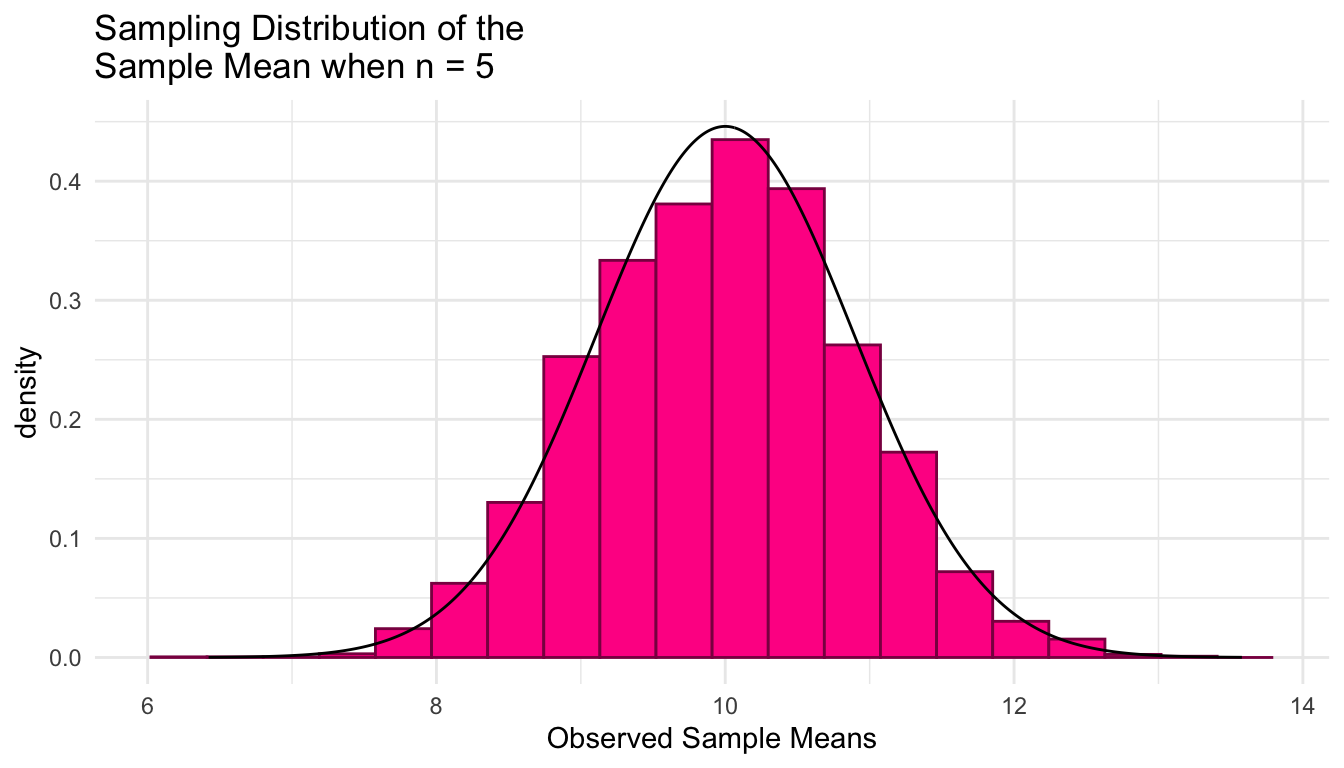
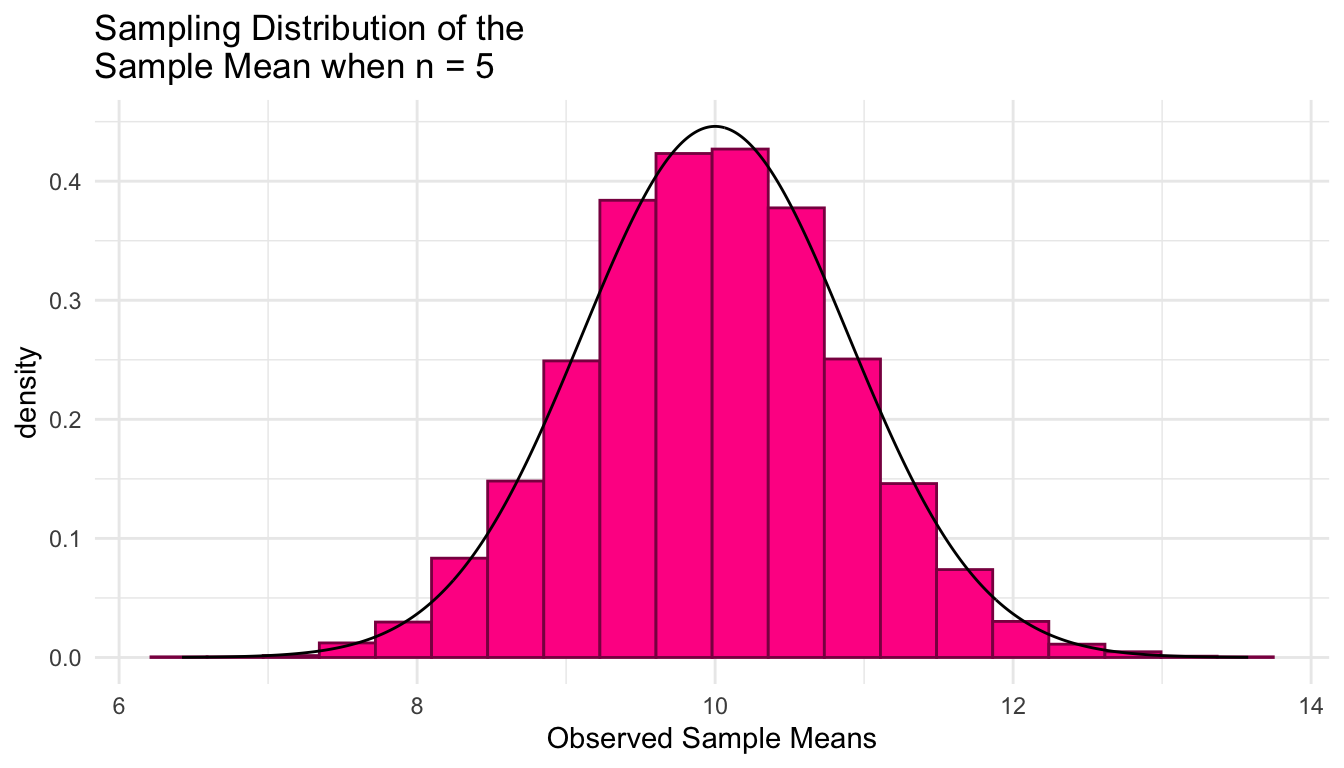
minor tweak to site title.

diff --git a/docs/samp-dist.html b/docs/samp-dist.html
@@ -4,7 +4,7 @@
 <meta charset="utf-8">
 <meta name="generator" content="quarto-1.4.555">
 <meta name="viewport" content="width=device-width, initial-scale=1.0, user-scalable=yes">
-<title>STAT 326 Labs - 1&nbsp; Sampling Distributions</title>
+<title>STAT 326 Labs and Projects - 1&nbsp; Sampling Distributions</title>
 <style>
 code{white-space: pre-wrap;}
 span.smallcaps{font-variant: small-caps;}
@@ -141,7 +141,7 @@ window.Quarto = {
 <!-- sidebar -->
   <nav id="quarto-sidebar" class="sidebar collapse collapse-horizontal quarto-sidebar-collapse-item sidebar-navigation floating overflow-auto"><div class="pt-lg-2 mt-2 text-left sidebar-header">
     <div class="sidebar-title mb-0 py-0">
-      <a href="./">STAT 326 Labs</a> 
+      <a href="./">STAT 326 Labs and Projects</a> 
         <div class="sidebar-tools-main">
   <a href="" class="quarto-reader-toggle quarto-navigation-tool px-1" onclick="window.quartoToggleReader(); return false;" title="Toggle reader mode">
   <div class="quarto-reader-toggle-btn">
@@ -161,7 +161,7 @@ window.Quarto = {
 <li class="sidebar-item">
   <div class="sidebar-item-container"> 
   <a href="./index.html" class="sidebar-item-text sidebar-link">
- <span class="menu-text">STAT 326 Site Information</span></a>
+ <span class="menu-text">Site Information</span></a>
   </div>
 </li>
         <li class="sidebar-item">
@@ -266,7 +266,7 @@ window.Quarto = {
 <span><span class="va">single_sample</span> <span class="op">&lt;-</span> <span class="fu"><a href="https://rdrr.io/r/stats/Normal.html">rnorm</a></span><span class="op">(</span><span class="va">n</span>, <span class="va">mu</span>, <span class="va">sigma</span><span class="op">)</span> <span class="op">|&gt;</span> <span class="fu"><a href="https://rdrr.io/r/base/Round.html">round</a></span><span class="op">(</span><span class="fl">2</span><span class="op">)</span></span>
 <span><span class="co"># look at the sample</span></span>
 <span><span class="va">single_sample</span> </span>
-<span><span class="co">#&gt; [1] 10.63  8.97  5.17 10.20  9.54</span></span></code><button title="Copy to Clipboard" class="code-copy-button"><i class="bi"></i></button></pre></div>
+<span><span class="co">#&gt; [1] 14.33 13.12 12.15 10.04 12.45</span></span></code><button title="Copy to Clipboard" class="code-copy-button"><i class="bi"></i></button></pre></div>
 </div>
 <p>Next, we compute the sample mean from this sample: this is our sample statistic we are interested in.</p>
 <div class="cell">
@@ -274,7 +274,7 @@ window.Quarto = {
 <span><span class="va">sample_mean</span> <span class="op">&lt;-</span> <span class="fu"><a href="https://rdrr.io/r/base/mean.html">mean</a></span><span class="op">(</span><span class="va">single_sample</span><span class="op">)</span></span>
 <span><span class="co"># look at the sample mean</span></span>
 <span><span class="va">sample_mean</span>     </span>
-<span><span class="co">#&gt; [1] 8.902</span></span></code><button title="Copy to Clipboard" class="code-copy-button"><i class="bi"></i></button></pre></div>
+<span><span class="co">#&gt; [1] 12.418</span></span></code><button title="Copy to Clipboard" class="code-copy-button"><i class="bi"></i></button></pre></div>
 </div>
 <p>Again, your sample mean should be different!</p>
 <p>Finally, we can make a plot of our single sample, along with where the sample mean lies.</p>
@@ -324,7 +324,7 @@ window.Quarto = {
 <span></span>
 <span><span class="co">## test function once:</span></span>
 <span><span class="fu">generate_normal_mean</span><span class="op">(</span>mu <span class="op">=</span> <span class="va">mu</span>, sigma <span class="op">=</span> <span class="va">sigma</span>, n <span class="op">=</span> <span class="va">n</span><span class="op">)</span></span>
-<span><span class="co">#&gt; [1] 9.804759</span></span></code><button title="Copy to Clipboard" class="code-copy-button"><i class="bi"></i></button></pre></div>
+<span><span class="co">#&gt; [1] 9.49933</span></span></code><button title="Copy to Clipboard" class="code-copy-button"><i class="bi"></i></button></pre></div>
 </div>
 <p>Next, to generate 5000 sample means, we map through the function:</p>
 <div class="cell">
@@ -342,12 +342,12 @@ window.Quarto = {
 <span><span class="co">#&gt; # A tibble: 5,000 × 1</span></span>
 <span><span class="co">#&gt;   means</span></span>
 <span><span class="co">#&gt;   &lt;dbl&gt;</span></span>
-<span><span class="co">#&gt; 1  9.46</span></span>
-<span><span class="co">#&gt; 2  9.69</span></span>
-<span><span class="co">#&gt; 3  9.76</span></span>
-<span><span class="co">#&gt; 4 11.9 </span></span>
-<span><span class="co">#&gt; 5 10.7 </span></span>
-<span><span class="co">#&gt; 6  8.72</span></span>
+<span><span class="co">#&gt; 1 11.1 </span></span>
+<span><span class="co">#&gt; 2  9.64</span></span>
+<span><span class="co">#&gt; 3  8.67</span></span>
+<span><span class="co">#&gt; 4  8.99</span></span>
+<span><span class="co">#&gt; 5 10.0 </span></span>
+<span><span class="co">#&gt; 6  9.29</span></span>
 <span><span class="co">#&gt; # ℹ 4,994 more rows</span></span></code><button title="Copy to Clipboard" class="code-copy-button"><i class="bi"></i></button></pre></div>
 </div>
 <p>Finally, we plot the 5000 sample means to see what our sampling distribution of the sample mean (for a sample size of 5) looks like.</p>
@@ -373,7 +373,7 @@ window.Quarto = {
 <span><span class="co">#&gt; # A tibble: 1 × 3</span></span>
 <span><span class="co">#&gt;   mean_samp_dist var_samp_dist sd_samp_dist</span></span>
 <span><span class="co">#&gt;            &lt;dbl&gt;         &lt;dbl&gt;        &lt;dbl&gt;</span></span>
-<span><span class="co">#&gt; 1           9.98         0.816        0.904</span></span></code><button title="Copy to Clipboard" class="code-copy-button"><i class="bi"></i></button></pre></div>
+<span><span class="co">#&gt; 1           9.98         0.799        0.894</span></span></code><button title="Copy to Clipboard" class="code-copy-button"><i class="bi"></i></button></pre></div>
 </div>
 <p>And, we can even obtain estimates of the probability that we observe a sample mean larger than 11 by <strong>calculating the proportion of our observed sample means that are larger than 11</strong>. We can use a similar strategy to estimate the probability that we observe a sample mean less than or equal to 9.5.</p>
 <div class="cell">
@@ -385,7 +385,7 @@ window.Quarto = {
 <span><span class="co">#&gt; # A tibble: 1 × 1</span></span>
 <span><span class="co">#&gt;   prob_more_than_11</span></span>
 <span><span class="co">#&gt;               &lt;dbl&gt;</span></span>
-<span><span class="co">#&gt; 1             0.128</span></span>
+<span><span class="co">#&gt; 1             0.125</span></span>
 <span></span>
 <span><span class="co"># What is the probability that we observe a sample mean less than or equal to 9.5?</span></span>
 <span><span class="va">means_df</span> <span class="op">|&gt;</span></span>
@@ -395,7 +395,7 @@ window.Quarto = {
 <span><span class="co">#&gt; # A tibble: 1 × 1</span></span>
 <span><span class="co">#&gt;   prob_less_9.5</span></span>
 <span><span class="co">#&gt;           &lt;dbl&gt;</span></span>
-<span><span class="co">#&gt; 1         0.306</span></span></code><button title="Copy to Clipboard" class="code-copy-button"><i class="bi"></i></button></pre></div>
+<span><span class="co">#&gt; 1         0.297</span></span></code><button title="Copy to Clipboard" class="code-copy-button"><i class="bi"></i></button></pre></div>
 </div>
 <p><strong>Exercise 1</strong>. Repeat the construction of the sampling distribution of the sample mean several times. How do the results change (or not)?</p>
 <p><strong>Exercise 2</strong>. Use the result from Stat 325 to report the theoretical distribution of the sample mean. Use this result to find <span class="math inline">\(P(\bar{Y}\leq 9.5)\)</span> and <span class="math inline">\(P(\bar{Y}&gt;11)\)</span> analytically.</p>
@@ -476,7 +476,7 @@ window.Quarto = {
 <span></span>
 <span><span class="co">## test function once:</span></span>
 <span><span class="fu">generate_exp_mean</span><span class="op">(</span>lambda <span class="op">=</span> <span class="va">lambda</span>, n <span class="op">=</span> <span class="va">n</span><span class="op">)</span></span>
-<span><span class="co">#&gt; [1] 2.833337</span></span>
+<span><span class="co">#&gt; [1] 1.816715</span></span>
 <span></span>
 <span><span class="va">nsim</span> <span class="op">&lt;-</span> <span class="fl">5000</span>      <span class="co"># number of simulations</span></span>
 <span></span>
@@ -489,12 +489,12 @@ window.Quarto = {
 <span><span class="co">#&gt; # A tibble: 5,000 × 1</span></span>
 <span><span class="co">#&gt;   means</span></span>
 <span><span class="co">#&gt;   &lt;dbl&gt;</span></span>
-<span><span class="co">#&gt; 1  2.15</span></span>
-<span><span class="co">#&gt; 2  2.90</span></span>
-<span><span class="co">#&gt; 3  1.97</span></span>
-<span><span class="co">#&gt; 4  1.87</span></span>
+<span><span class="co">#&gt; 1  3.20</span></span>
+<span><span class="co">#&gt; 2  2.22</span></span>
+<span><span class="co">#&gt; 3  1.91</span></span>
+<span><span class="co">#&gt; 4  2.09</span></span>
 <span><span class="co">#&gt; 5  1.80</span></span>
-<span><span class="co">#&gt; 6  1.60</span></span>
+<span><span class="co">#&gt; 6  2.14</span></span>
 <span><span class="co">#&gt; # ℹ 4,994 more rows</span></span>
 <span></span>
 <span><span class="fu"><a href="https://ggplot2.tidyverse.org/reference/ggplot.html">ggplot</a></span><span class="op">(</span>data <span class="op">=</span> <span class="va">means_df</span>, <span class="fu"><a href="https://ggplot2.tidyverse.org/reference/aes.html">aes</a></span><span class="op">(</span>x <span class="op">=</span> <span class="va">means</span><span class="op">)</span><span class="op">)</span> <span class="op">+</span></span>
@@ -1019,8 +1019,8 @@ window.document.addEventListener("DOMContentLoaded", function (event) {
   }
 });
 </script><nav class="page-navigation"><div class="nav-page nav-page-previous">
-      <a href="./index.html" class="pagination-link" aria-label="STAT 326 Site Information">
-        <i class="bi bi-arrow-left-short"></i> <span class="nav-page-text">STAT 326 Site Information</span>
+      <a href="./index.html" class="pagination-link" aria-label="Site Information">
+        <i class="bi bi-arrow-left-short"></i> <span class="nav-page-text">Site Information</span>
       </a>          
   </div>
   <div class="nav-page nav-page-next">

diff --git a/docs/index.html b/docs/index.html
@@ -7,7 +7,7 @@
 <meta name="viewport" content="width=device-width, initial-scale=1.0, user-scalable=yes">
 
 
-<title>STAT 326 Labs</title>
+<title>STAT 326 Labs and Projects</title>
 <style>
 code{white-space: pre-wrap;}
 span.smallcaps{font-variant: small-caps;}
@@ -80,7 +80,7 @@ ul.task-list li input[type="checkbox"] {
       <button type="button" class="quarto-btn-toggle btn" data-bs-toggle="collapse" data-bs-target=".quarto-sidebar-collapse-item" aria-controls="quarto-sidebar" aria-expanded="false" aria-label="Toggle sidebar navigation" onclick="if (window.quartoToggleHeadroom) { window.quartoToggleHeadroom(); }">
         <i class="bi bi-layout-text-sidebar-reverse"></i>
       </button>
-        <nav class="quarto-page-breadcrumbs" aria-label="breadcrumb"><ol class="breadcrumb"><li class="breadcrumb-item"><a href="./index.html">STAT 326 Site Information</a></li></ol></nav>
+        <nav class="quarto-page-breadcrumbs" aria-label="breadcrumb"><ol class="breadcrumb"><li class="breadcrumb-item"><a href="./index.html">Site Information</a></li></ol></nav>
         <a class="flex-grow-1" role="button" data-bs-toggle="collapse" data-bs-target=".quarto-sidebar-collapse-item" aria-controls="quarto-sidebar" aria-expanded="false" aria-label="Toggle sidebar navigation" onclick="if (window.quartoToggleHeadroom) { window.quartoToggleHeadroom(); }">      
         </a>
       <button type="button" class="btn quarto-search-button" aria-label="" onclick="window.quartoOpenSearch();">
@@ -95,7 +95,7 @@ ul.task-list li input[type="checkbox"] {
   <nav id="quarto-sidebar" class="sidebar collapse collapse-horizontal quarto-sidebar-collapse-item sidebar-navigation floating overflow-auto">
     <div class="pt-lg-2 mt-2 text-left sidebar-header">
     <div class="sidebar-title mb-0 py-0">
-      <a href="./">STAT 326 Labs</a> 
+      <a href="./">STAT 326 Labs and Projects</a> 
         <div class="sidebar-tools-main">
   <a href="" class="quarto-reader-toggle quarto-navigation-tool px-1" onclick="window.quartoToggleReader(); return false;" title="Toggle reader mode">
   <div class="quarto-reader-toggle-btn">
@@ -115,7 +115,7 @@ ul.task-list li input[type="checkbox"] {
         <li class="sidebar-item">
   <div class="sidebar-item-container"> 
   <a href="./index.html" class="sidebar-item-text sidebar-link active">
- <span class="menu-text">STAT 326 Site Information</span></a>
+ <span class="menu-text">Site Information</span></a>
   </div>
 </li>
         <li class="sidebar-item">
@@ -164,7 +164,7 @@ ul.task-list li input[type="checkbox"] {
     <h2 id="toc-title">Table of contents</h2>
    
   <ul>
-  <li><a href="#stat-326-site-information" id="toc-stat-326-site-information" class="nav-link active" data-scroll-target="#stat-326-site-information">STAT 326 Site Information</a></li>
+  <li><a href="#site-information" id="toc-site-information" class="nav-link active" data-scroll-target="#site-information">Site Information</a></li>
   </ul>
 </nav>
     </div>
@@ -173,7 +173,7 @@ ul.task-list li input[type="checkbox"] {
 
 <header id="title-block-header" class="quarto-title-block default">
 <div class="quarto-title">
-<h1 class="title">STAT 326 Labs</h1>
+<h1 class="title">STAT 326 Labs and Projects</h1>
 </div>
 
 
@@ -190,8 +190,8 @@ ul.task-list li input[type="checkbox"] {
 </header>
 
 
-<section id="stat-326-site-information" class="level1 unnumbered">
-<h1 class="unnumbered">STAT 326 Site Information</h1>
+<section id="site-information" class="level1 unnumbered">
+<h1 class="unnumbered">Site Information</h1>
 <p>Welcome! This site contains code and exercises for the labs in STAT 326 (Mathematical Statistics), information for the mini projects in the course, and information about the final portfolio. While we will also do plenty of handwritten work to help understand concepts, the primary purpose of this site is to hold all of the computing/coding work in one place.</p>
 
 

diff --git a/docs/conf-int.html b/docs/conf-int.html
@@ -7,7 +7,7 @@
 <meta name="viewport" content="width=device-width, initial-scale=1.0, user-scalable=yes">
 
 
-<title>STAT 326 Labs - 3&nbsp; Confidence Intervals</title>
+<title>STAT 326 Labs and Projects - 3&nbsp; Confidence Intervals</title>
 <style>
 code{white-space: pre-wrap;}
 span.smallcaps{font-variant: small-caps;}
@@ -96,7 +96,7 @@ ul.task-list li input[type="checkbox"] {
   <nav id="quarto-sidebar" class="sidebar collapse collapse-horizontal quarto-sidebar-collapse-item sidebar-navigation floating overflow-auto">
     <div class="pt-lg-2 mt-2 text-left sidebar-header">
     <div class="sidebar-title mb-0 py-0">
-      <a href="./">STAT 326 Labs</a> 
+      <a href="./">STAT 326 Labs and Projects</a> 
         <div class="sidebar-tools-main">
   <a href="" class="quarto-reader-toggle quarto-navigation-tool px-1" onclick="window.quartoToggleReader(); return false;" title="Toggle reader mode">
   <div class="quarto-reader-toggle-btn">
@@ -116,7 +116,7 @@ ul.task-list li input[type="checkbox"] {
         <li class="sidebar-item">
   <div class="sidebar-item-container"> 
   <a href="./index.html" class="sidebar-item-text sidebar-link">
- <span class="menu-text">STAT 326 Site Information</span></a>
+ <span class="menu-text">Site Information</span></a>
   </div>
 </li>
         <li class="sidebar-item">

diff --git a/docs/bayesian.html b/docs/bayesian.html
@@ -7,7 +7,7 @@
 <meta name="viewport" content="width=device-width, initial-scale=1.0, user-scalable=yes">
 
 
-<title>STAT 326 Labs - 4&nbsp; Bayesian Statistics</title>
+<title>STAT 326 Labs and Projects - 4&nbsp; Bayesian Statistics</title>
 <style>
 code{white-space: pre-wrap;}
 span.smallcaps{font-variant: small-caps;}
@@ -96,7 +96,7 @@ ul.task-list li input[type="checkbox"] {
   <nav id="quarto-sidebar" class="sidebar collapse collapse-horizontal quarto-sidebar-collapse-item sidebar-navigation floating overflow-auto">
     <div class="pt-lg-2 mt-2 text-left sidebar-header">
     <div class="sidebar-title mb-0 py-0">
-      <a href="./">STAT 326 Labs</a> 
+      <a href="./">STAT 326 Labs and Projects</a> 
         <div class="sidebar-tools-main">
   <a href="" class="quarto-reader-toggle quarto-navigation-tool px-1" onclick="window.quartoToggleReader(); return false;" title="Toggle reader mode">
   <div class="quarto-reader-toggle-btn">
@@ -116,7 +116,7 @@ ul.task-list li input[type="checkbox"] {
         <li class="sidebar-item">
   <div class="sidebar-item-container"> 
   <a href="./index.html" class="sidebar-item-text sidebar-link">
- <span class="menu-text">STAT 326 Site Information</span></a>
+ <span class="menu-text">Site Information</span></a>
   </div>
 </li>
         <li class="sidebar-item">

diff --git a/docs/hyp-test.html b/docs/hyp-test.html
@@ -7,7 +7,7 @@
 <meta name="viewport" content="width=device-width, initial-scale=1.0, user-scalable=yes">
 
 
-<title>STAT 326 Labs - 5&nbsp; Hypothesis Testing</title>
+<title>STAT 326 Labs and Projects - 5&nbsp; Hypothesis Testing</title>
 <style>
 code{white-space: pre-wrap;}
 span.smallcaps{font-variant: small-caps;}
@@ -96,7 +96,7 @@ ul.task-list li input[type="checkbox"] {
   <nav id="quarto-sidebar" class="sidebar collapse collapse-horizontal quarto-sidebar-collapse-item sidebar-navigation floating overflow-auto">
     <div class="pt-lg-2 mt-2 text-left sidebar-header">
     <div class="sidebar-title mb-0 py-0">
-      <a href="./">STAT 326 Labs</a> 
+      <a href="./">STAT 326 Labs and Projects</a> 
         <div class="sidebar-tools-main">
   <a href="" class="quarto-reader-toggle quarto-navigation-tool px-1" onclick="window.quartoToggleReader(); return false;" title="Toggle reader mode">
   <div class="quarto-reader-toggle-btn">
@@ -116,7 +116,7 @@ ul.task-list li input[type="checkbox"] {
         <li class="sidebar-item">
   <div class="sidebar-item-container"> 
   <a href="./index.html" class="sidebar-item-text sidebar-link">
- <span class="menu-text">STAT 326 Site Information</span></a>
+ <span class="menu-text">Site Information</span></a>
   </div>
 </li>
         <li class="sidebar-item">

diff --git a/docs/estimation.html b/docs/estimation.html
@@ -7,7 +7,7 @@
 <meta name="viewport" content="width=device-width, initial-scale=1.0, user-scalable=yes">
 
 
-<title>STAT 326 Labs - 2&nbsp; Estimation</title>
+<title>STAT 326 Labs and Projects - 2&nbsp; Estimation</title>
 <style>
 code{white-space: pre-wrap;}
 span.smallcaps{font-variant: small-caps;}
@@ -96,7 +96,7 @@ ul.task-list li input[type="checkbox"] {
   <nav id="quarto-sidebar" class="sidebar collapse collapse-horizontal quarto-sidebar-collapse-item sidebar-navigation floating overflow-auto">
     <div class="pt-lg-2 mt-2 text-left sidebar-header">
     <div class="sidebar-title mb-0 py-0">
-      <a href="./">STAT 326 Labs</a> 
+      <a href="./">STAT 326 Labs and Projects</a> 
         <div class="sidebar-tools-main">
   <a href="" class="quarto-reader-toggle quarto-navigation-tool px-1" onclick="window.quartoToggleReader(); return false;" title="Toggle reader mode">
   <div class="quarto-reader-toggle-btn">
@@ -116,7 +116,7 @@ ul.task-list li input[type="checkbox"] {
         <li class="sidebar-item">
   <div class="sidebar-item-container"> 
   <a href="./index.html" class="sidebar-item-text sidebar-link">
- <span class="menu-text">STAT 326 Site Information</span></a>
+ <span class="menu-text">Site Information</span></a>
   </div>
 </li>
         <li class="sidebar-item">

diff --git a/docs/portfolio.html b/docs/portfolio.html
@@ -7,7 +7,7 @@
 <meta name="viewport" content="width=device-width, initial-scale=1.0, user-scalable=yes">
 
 
-<title>STAT 326 Labs - 6&nbsp; Portfolio</title>
+<title>STAT 326 Labs and Projects - 6&nbsp; Portfolio</title>
 <style>
 code{white-space: pre-wrap;}
 span.smallcaps{font-variant: small-caps;}
@@ -95,7 +95,7 @@ ul.task-list li input[type="checkbox"] {
   <nav id="quarto-sidebar" class="sidebar collapse collapse-horizontal quarto-sidebar-collapse-item sidebar-navigation floating overflow-auto">
     <div class="pt-lg-2 mt-2 text-left sidebar-header">
     <div class="sidebar-title mb-0 py-0">
-      <a href="./">STAT 326 Labs</a> 
+      <a href="./">STAT 326 Labs and Projects</a> 
         <div class="sidebar-tools-main">
   <a href="" class="quarto-reader-toggle quarto-navigation-tool px-1" onclick="window.quartoToggleReader(); return false;" title="Toggle reader mode">
   <div class="quarto-reader-toggle-btn">
@@ -115,7 +115,7 @@ ul.task-list li input[type="checkbox"] {
         <li class="sidebar-item">
   <div class="sidebar-item-container"> 
   <a href="./index.html" class="sidebar-item-text sidebar-link">
- <span class="menu-text">STAT 326 Site Information</span></a>
+ <span class="menu-text">Site Information</span></a>
   </div>
 </li>
         <li class="sidebar-item">
